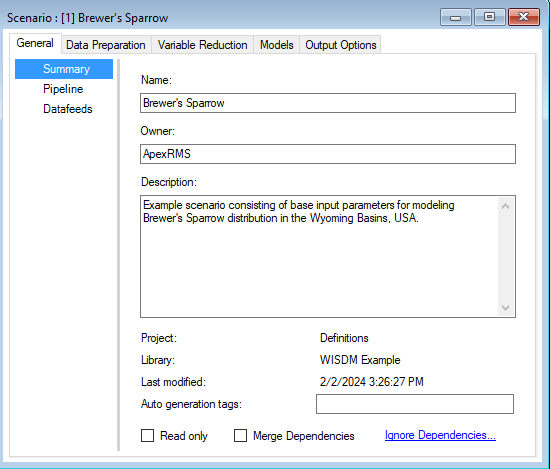
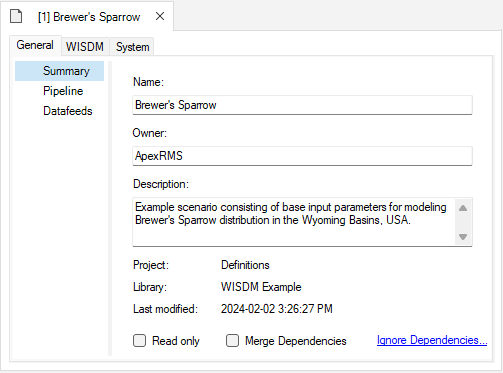
SyncroSim 3 updates

Changed region(s): [[0.0, 0.0, 1.0, 1.0]]

diff --git a/docs/getting_started.md b/docs/getting_started.md
@@ -21,7 +21,7 @@ In the meantime, please note that some instructions, references, and/or images m
 
 <br>
 
-## **WISDM** Quickstart Tutorial
+## **WISDM** Quickstart tutorial
 
 This quickstart tutorial will introduce you to the basics of working with **WISDM**. The steps include:
 
@@ -37,7 +37,7 @@ This quickstart tutorial will introduce you to the basics of working with **WISD
 
 Running **WISDM** requires that the SyncroSim software be installed on your computer. Download the latest version of SyncroSim <a href="https://syncrosim.com/download/" target="_blank">here</a> and follow the installation prompts.
 
-**WISDM** is a [*Base Package*](https://docs.syncrosim.com/how_to_guides/package_overview.html){:target="_blank"} within the SyncroSim simulation modeling framework. To install the **WISDM** *Package*, open SyncroSim and select **File** > **Packages** > **Install**, then select the **WISDM** *Package* and click OK.
+**WISDM** is a [package](https://docs.syncrosim.com/how_to_guides/package_overview.html){:target="_blank"} within the SyncroSim simulation modeling framework. To install the **WISDM** *package*, open SyncroSim Studio and select **File** > **Local Packages** > **Install from Server**, then select the **WISDM** package and click OK.
 
 If you do not have **Miniconda** installed on your computer, a dialog box will open asking if you would like to install Miniconda. Click **Yes**. Once Miniconda is done installing, a dialog box will open asking if you would like to create a new conda environment. Click **Yes**. Note that the process of installing Miniconda and the **WISDM** conda environment can take several minutes. If you choose not to install the conda environment you will need to manually install all required package dependencies.
 
@@ -47,33 +47,33 @@ If you do not have **Miniconda** installed on your computer, a dialog box will o
 
 <p id="step2"> <h2>Step 2: Creating a new <b>WISDM</b> Library</h2> </p>
 
-Having installed the **WISDM** *Package*, you are now ready to create your SyncroSim *Library*. A *Library* is a file (with extension *.ssim*) that contains all your model inputs and outputs. Note that the format of each *Library* is specific to the *Package* for which it was initially created. You can opt to create an empty *Library* or use a template *Library* called **_WISDM Example_**. In this tutorial, we will be working with the **_WISDM Example_** template *Library*. To create a new *Library* from this template, choose **New...** from the **File** menu.
+Having installed the **WISDM** package, you are now ready to create your SyncroSim library. A library is a file (with extension *.ssim*) that contains all your model inputs and outputs. Note that the format of each library is specific to the package for which it was initially created. You can opt to create an empty library or use a template library called **_WISDM Example_**. In this tutorial, we will be working with the **_WISDM Example_** template library. To create a new library from this template, choose **New... > From Online Template... >** from the **File** menu, and selecting **WISDM**.
 
 <img align="middle" style="padding: 3px" width="499" src="assets/images/template.png">
 
 In this window:
 
-* Select the row for **wisdm - Workbench of Integrated Species Distribution Modeling**. Note that as you select a row, the list of *Templates* available and suggested **File name** for that base package are updated.
+* Select the row for **wisdm - Workbench for Integrated Species Distribution Modeling**. Note that as you select a row, the list of *templates* available and suggested **File name** for that base package are updated.
 * Select the **_WISDM Example_** template as shown above. 
-* Optionally type in a new **File name** for the *Library* (or accept the default); you can also change the **Folder** containing the file using the **Browse…** button. <br>
-* When you are ready to create the Library file, click **OK**. A new *Library* will be created and loaded into the **Library Explorer**.
+* Optionally type in a new *File name* for the library (or accept the default); you can also change the *Folder* containing the file using the *Browse…* button. <br>
+* When you are ready to create the library file, click **OK**. A new libraryl will be created and loaded into the SyncroSim Studio **Explorer**.
 
 <br>
 
 <p id="step3"> <h2>Step 3: Viewing model inputs</h2> </p>
 
-The contents of your newly created Library are now displayed in the **Library Explorer**. The *Library* stores information on three levels: the *Library*, the *Project*, and the *Scenarios*. 
+The contents of your newly created library are now displayed in the **Explorer**. The libraryl stores information on three levels: 1.) the library, 2.) the project, and 3.) the scenario(s). 
 
-Most model inputs in SyncroSim are organized into *Scenarios*, where each *Scenario* consists of a suite of *Properties*, one for each of the model’s required inputs. Because you chose the **_WISDM Example_** when you created your *Library*, your Library already contains a demonstration *Scenario* with pre-configured model inputs and outputs. 
+Most model inputs in SyncroSim are organized into scenarios, where each scenarios consists of a suite of properties, one for each of the model’s required inputs. Because you chose the **_WISDM Example_** when you created your library, your library already contains a demonstration scenario with pre-configured model inputs and outputs. 
 
 <img align="middle" style="padding: 3px" width="294" src="assets/images/scenario.png">
 
-To view the details of the *Scenario*:
+To view the details of the scenario:
 
-* Select the scenario named **_Brewer's Sparrow_** in the **Library Explorer**.
-* Right-click and choose **Properties** from the context menu to view the details of the Scenario.
+* Select the scenario named **_Brewer's Sparrow_** in the *Explorer*.
+* Right-click and choose **Open** from the context menu to view the details of the scenario.
 
-This opens the *Scenario Properties* window.
+This opens the scenario properties window.
 
 <img align="middle" style="padding: 3px" width="550" src="assets/images/scenario-properties.png">
 
@@ -81,7 +81,7 @@ This opens the *Scenario Properties* window.
 
 ### Pipeline
 
-Located underneath the **General** tab, the model **Pipeline** allows you to select which stages of the model to include in the model run and their run order. A full run of **WISDM** consists of six to nine stages: (1) Create multiprocessing tiles (optional); (2) Prepare spatial data; (3) Prepare site data; (4) Generate background sites (optional); (5) Prepare training and testing data; (6) Variable reduction; (7) Fit statistical model(s); (8) Apply the model(s); (9) Ensemble the models (optional). The following list represents all possible *Pipeline* elements. In this example, however, we will only run two statistical models in Stage 7:
+Located under the **General** tab, the model **Pipeline** allows you to select which stages of the model to include in the model run and their run order. A full run of **WISDM** consists of six to nine stages: (1) Create multiprocessing tiles (optional); (2) Prepare spatial data; (3) Prepare site data; (4) Generate background sites (optional); (5) Prepare training and testing data; (6) Variable reduction; (7) Fit statistical model(s); (8) Apply the model(s); (9) Ensemble the models (optional). The following list represents all possible *Pipeline* elements. In this example, however, we will only run two statistical models in Stage 7:
 
 * Stage 1: Prepare Multiprocessing (optional)
 * Stage 2: Spatial Data Preparation
@@ -96,41 +96,39 @@ Located underneath the **General** tab, the model **Pipeline** allows you to sel
 * Stage 8: Apply Model
 * Stage 9: Ensemble Model (optional)
 
-Note that all stages in this *Pipeline* are dependent on the results of the previous stage. You cannot run a stage without having first run the previous required stages (optional stages can be skipped). However, you can choose to fit your data to any number of the statistical models available for Stage 7 (i.e., GLM, Random Forest, or Maxent). In this example, GLM and Random Forest have been selected and added to the *Pipeline*.  
+Note that all stages in this pipeline are dependent on the results of the previous stage. You cannot run a stage without having first run the previous required stages (optional stages can be skipped). However, you can choose to fit your data to any number of the statistical models available for Stage 7 (i.e., GLM, Random Forest, or Maxent). In this example, GLM and Random Forest have been selected and added to the pipeline.
 
 <img align="middle" style="padding: 3px" width="470" src="assets/images/pipeline-models.png">
 
 <br>
 
-### Spatial Multiprocessing Inputs
+### Spatial multiprocessing inputs
 
-Under the **Data Preparation** tab, you'll find the **Template Raster** datasheet. Here, you'll provide the system path to a *Raster File* with the desired extent, resolution, and coordinate reference system (CRS) for the analysis and outputs. This **Template Raster** is required for multiple stages in the *Pipeline*, including the optional Prepare Multiprocessing stage. 
+Under the **WISDM > Data Preparation** node, you'll find the **Template Raster** datasheet. Here, you'll provide the system path to a *Raster file* with the desired extent, resolution, and coordinate reference system (CRS) for the analysis and outputs. This **Template Raster** is required for multiple stages in the pipeline, including the optional Prepare Multiprocessing stage. 
 
-If you are choosing to run with Spatial Multiprocessing, you can also specify the *Number of Multiprocessing Tiles* that you would like to use. If you don't specify a value, the package will select an appropriate value for you. 
+If you are choosing to run with Spatial Multiprocessing, you can also specify the *Number of multiprocessing tiles (optional)* that you would like to use. If you don't specify a value, the package will select an appropriate value for you. 
 
-If spatial multiprocessing is used, a tiling raster will be created and will appear in the **Spatial Multiprocessing** datasheet when the **Scenario** has finished running. This tiling raster is used to clip other spatial layers into smaller rectangular blocks, effectively creating more manageable processing sizes.
+If spatial multiprocessing is used, a tiling raster will be created and will appear in the **System > Spatial Multiprocessing** datasheet when the scenario has finished running. This tiling raster is used to clip other spatial layers into smaller rectangular blocks, effectively creating more manageable processing sizes.
 
 <img align="middle" style="padding: 3px" width="579" src="assets/images/template-raster.png">
 
-Note that Stage 1 (Prepare Multiprocessing) only needs to be added to the *Pipeline* and run if spatial multiprocessing is required (i.e., for large landscapes and/or high resolution data). In this example, we will use spatial multiprocessing for demonstration purposes. 
+Note that Stage 1 (Prepare Multiprocessing) only needs to be added to the pipeline and run if spatial multiprocessing is required (i.e., for large landscapes and/or high resolution data). In this example, we will use spatial multiprocessing for demonstration purposes. 
 
 <br>
 
-### Spatial Data Inputs
+### Spatial data inputs
 
-Under the **Project Properties**, which you can view by double-clicking in the **Library Explorer** window, in the *Project* called *Definitions*, you'll find the **Covariates** datasheet. Here, you must list the names of all covariates you want to consider for model development.
+Under the **Project Properties**, which you can view by double-clicking in the *Explorer* window, in the *project* called *Definitions*, you'll find the **WISDM > Covariates** datasheet. Here, you must list the names of all covariates you want to consider for model development.
 
 <img align="middle" style="padding: 3px" width="657" src="assets/images/covariates.png">
 
-If you return to the **Scenario Properties**, under the **Data Preparation** tab, you'll also find a datasheet called **Covariate Data**. Here, you will identify system paths to the raster files (e.g., GEOTiffs) for each covariate listed in the **Covariates** datasheet above. The extent of each raster must be greater than or equal to the template raster extent.
+If you return to the scenario roperties, under the **WISDM > Data Preparation > Spatial Data** node, you'll also find a datasheet called **Covariate Data**. Here, you will identify system paths to the raster files (e.g., GEOTiffs) for each covariate listed in the aforementioned **Covariates** datasheet. The extent of each raster must be greater than or equal to the template raster extent.
 
 <img align="middle" style="padding: 3px" width="582" src="assets/images/covariate-data.png">
 
 Below the **Covariate Data** datasheet, you will see a **Restriction Raster** datasheet. This is an optional input, where you can specify a file path to a raster that will be used to multiply the probability raster during the apply model stage. The **Restriction Raster** is often binary, with the value of 0 indicating areas where occurrence probability will be reduced to zero. In addition to providing a file, you can provide a brief description of the **Restriction Raster** used.
 
-
-
-In the same **Data Preparation** tab, you'll also find a **Field Data** datasheet. Here, you will identify site locations by their X and Y coordinates and include response values for the target species. Response values can be provided as presence-only (1), presence/absence (1 or 0), or counts (integers >= 0).  
+In the same **Data Preparation** tab, you'll also find a **Field Data** datasheet. Here, you will identify site locations by their X and Y coordinates and include response values for the target species. Response values can be provided as presence-only (1), presence/absence (1 or 0), or counts (integers >= 0).
 
 <img align="middle" style="padding: 3px" width="494" src="assets/images/field-data.png">
 
@@ -138,33 +136,31 @@ By default, **WISDM** assumes that the field data coordinates are provided in th
 
 <img align="middle" style="padding: 3px" width="498" src="assets/images/field-data-options.png">
 
-The *Aggregate or Weight Data* input gives you the option to handle redundancy and avoid pseudo-replication by either aggregating field data locations so only one field data observation is represented per pixel or proportionately down-weighting pixels with multiple points. If the input is left blank, all field data points will be retained without aggregation or weighting.
+The *Aggregate or weight data* input gives you the option to handle redundancy and avoid pseudo-replication by either aggregating field data locations so only one field data observation is represented per pixel or proportionately down-weighting pixels with multiple points. If the input is left blank, all field data points will be retained without aggregation or weighting.
 
-If the *Background Data Generation* stage is included in the Scenario *Pipeline*, the **Background Data Options** datasheet will be visible below the **Field Data Options** datasheet. Here, you can identify preferences for background site or pseudo-absence generation, such as whether background sites should be generated, the number of sites that should be generated, the method used for generation, KDE (kernel density estimation) background surface method, and the isopleth threshold used for binary mask creation. This datasheet is optional and is left blank for the purposes of this tutorial.
-
-
+If the *Background Data Generation* stage is included in the scenario pipeline, the **Background Data Options** datasheet will be visible below the **Field Data Options** datasheet. Here, you can identify preferences for background site or pseudo-absence generation, such as whether background sites should be generated, the number of sites that should be generated, the method used for generation, KDE (kernel density estimation) background surface method, and the isopleth threshold used for binary mask creation. This datasheet is optional and is left blank for the purposes of this tutorial.
 
 <br>
 
-### Field Data Inputs
+### Field data inputs
 
-Still under the **Data Preparation** tab, you'll find the **Validation Options** datasheet. Here, you'll indicate if data should be split into training and testing datasets and the proportion of data that should be used for training. If left blank all data is used for training and no data is reserved for testing. In this datasheet, you can also indicate if cross validation (CV) should be used, the number of CV folds the data should be split into (the default is 10), and if the data in the folds should be stratified by the response (i.e., relatively equal representation of the response variables in each fold). If *Use cross validation for model selection* is left blank, cross validation will not run.  
+Still under the **WISDM > Data Preparation** tab, you'll find the **Validation Options** datasheet. Here, you'll indicate if data should be split into training and testing datasets and the proportion of data that should be used for training. If left blank all data is used for training and no data is reserved for testing. In this datasheet, you can also indicate if cross validation (CV) should be used, the number of CV folds the data should be split into (the default is 10), and if the data in the folds should be stratified by the response (i.e., relatively equal representation of the response variables in each fold). If *Use cross validation for model selection* is left blank, cross validation will not run.  
 
 <img align="middle" style="padding: 3px" width="496" src="assets/images/validation-options.png">
 
 <br>
 
-### Statistical Models
+### Statistical models
 
-In the **Models** tab, you'll find the **GLM**, **Random Forest**, and **Maxent** datasheets. Depending on which statistical models you included in your *Pipeline*, you can access the corresponding model configuration datasheet here and customize your desired statistical analysis. If fields are left blank, default values will be used. 
+Under the **WISDM > Models** node, you'll find the **Generalized Linear Model**, **Random Forest**, and **Maodel Outputs** datasheets. Depending on which statistical models you included in your pipeline, you can access the corresponding model configuration datasheet here and customize your desired statistical analysis. If fields are left blank, default values will be used. 
 
 <img align="middle" style="padding: 3px" width="410" src="assets/images/GLM.png">
 
 <br> 
 
-### Output Options
+### Output options
 
-In the **Output Options** datasheet, you can choose which output maps to generate. Five output options are available for selection: (1) Probability Map, (2) Binary Map, (3) Residuals Map, (4) Multivariate Environmental Similarity Surface (MESS) Map, and (5) Most Dissimilar Variable (MoD) Map. Choosing at least one option is required to produce output maps. If this datasheet is left blank, the probability map will be generated by default and all other maps will not be generated. 
+In the **WISDM > Output Options** datasheet, you can choose which output maps to generate. Five output options are available for selection: (1) Probability Map, (2) Binary Map, (3) Residuals Map, (4) Multivariate Environmental Similarity Surface (MESS) Map, and (5) Most Dissimilar Variable (MoD) Map. Choosing at least one option is required to produce output maps. If this datasheet is left blank, the probability map will be generated by default and all other maps will not be generated. 
 
 <img align="middle" style="padding: 3px" width="659" src="assets/images/output-options.png">
 
@@ -172,15 +168,15 @@ In the **Output Options** datasheet, you can choose which output maps to generat
 
 <p id="step4"> <h2>Step 4: Running models</h2> </p>
 
-Right-click on the **_Brewer's Sparrow Scenario_** in the **Scenario Manager** window and select **Run** from the context menu. If prompted to save your project, click **Yes**. 
+Right-click on the **_Brewer's Sparrow Scenario_** select **Run** from the context menu. If prompted to save your project, click **Yes**. 
 
-During the model run, the **Covariate Correlation Viewer** window will open in your default browser, showing correlations between *Covariates*. Here, you can manually remove covariates from consideration based on user interpretation (e.g., if the correlation values are deemed unacceptable). To remove a *Covariate*, uncheck the box next to the variable name in the *Covariates to include* list. A default threshold correlation value of |0.7| (highest of Spearman, Pearson, Kendall) is used to color code the correlation values. This value, and the number of plots shown, can be changed. To view  changes, simply select the *Update* button. Once you are satisfied with your list of covariates, select the *Save & Close* button. The window will close and the analysis will continue in Syncrosim.
+During the model run, the **Covariate Correlation Viewer** window will open in your default browser, showing correlations between *Covariates*. Here, you can manually remove covariates from consideration based on user interpretation (e.g., if the correlation values are deemed unacceptable). To remove a *Covariate*, uncheck the box next to the variable name in the *Covariates to include* list. A default threshold correlation absolute value of 0.7 (highest of Spearman, Pearson, Kendall) is used to color code the correlation values. This value, and the number of plots shown, can be changed. To view  changes, simply select the *Update* button. Once you are satisfied with your list of covariates, select the *Save & Close* button. The window will close and the analysis will continue in Syncrosim.
 
-<img align="middle" style="padding: 3px" width="869" src="assets/images/correlation-viewer.png">
+<img align="middle" style="padding: 3px" width="869" src="assets/images/correlation-viewer.png"> <!--update-->
 
 The example model run should complete within a couple of minutes. If the run is successful, you will see a Status of **Done** in the **Run Monitor** window. If the run fails, you can click on the **Run Log** link to see a report of any problems that occurred.
 
-<img align="middle" style="padding: 3px" width="700" src="assets/images/run-monitor.png">
+<img align="middle" style="padding: 3px" width="700" src="assets/images/run-monitor.png"> <!--update-->
 
 <br>
 
@@ -192,19 +188,19 @@ Once the run is complete, you can view the details of the *Result Scenario*:
 
 <img align="middle" style="padding: 3px" width="292" src="assets/images/result-scenario.png">
 
-* Right-click and choose **Properties** from the context menu to view the details of the *Result Scenario*.
+* Right-click and choose **Properties** from the context menu to view the details of the result scenario.
 
 <img align="middle" style="padding: 3px" width="631" src="assets/images/result-scenario-properties.png">
 
 This opens the *Result Scenario Properties* window. The format of the *Result Scenario Properties* is similar to the *Scenario Properties* but contains read-only datasheets with updated information produced during the model run.
 
-You can look through the *Result Scenario* to see the updated or newly populated datasheets. You should find that the **Field Data**, **Covariate Data**, **GLM**, and **Random Forest** datasheets have updated entries. Note that the model configuration options for **Random Forest** were left empty in the *Parent Scenario*. In this case, **WISDM** uses default settings during model fitting and reports the selections in the *Result Scenario*.
+You can look through the result scenario to see the updated or newly populated datasheets. You should find that the **Field Data**, **Covariate Data**, **GLM**, and **Random Forest** datasheets have updated entries. Note that the model configuration options for **Random Forest** were left empty in the *Parent Scenario*. In this case, **WISDM** uses default settings during model fitting and reports the selections in the result scenario.
 
 <img align="middle" style="padding: 3px" width="442" src="assets/images/random-forest-output.png">
 
 <br>
 
-### Data Preparation Outputs
+### Data preparation outputs
 
 The **Field Data** datasheet has also been updated to only include training data and background (pseudo-absence) sites inside the extent of the *template raster*. In the **Options** datasheet, if weight was selected, the *Weights* column will also be populated. If aggregate was selected, records with -9999 may occur in the *Response* column, this indicates redundancy, and these records will be removed from model fitting. The *Use In Model Evaluation* and *Model Selection Split* columns will also be populated based on selections defined in the **Validation Options** datasheet. The *Use in Model Evaluation* column indicates which sites were used for model training and testing. A **Yes** in this column means that the site was reserved for model evaluation (i.e., testing) and was not used during model fitting (i.e., training). The *Model Selection Split* column indicates how the training data has been spilt for cross validation. This column is only populated if *Use cross validation for model selection* was chosen under **Validation Options**, and will display the cross-validation fold assigned to each site. 
 
@@ -218,7 +214,7 @@ Back in the **Covariate Data** datasheet, you'll find that all your input raster
 
 <br>
 
-In the *Results Scenario* you should also find that the **Spatial Multiprocessing** datasheet under the **Data Preparation** tab has been populated, along with the **Site Data** and **Retained Covariate List** datasheets under the **Variable Reduction** tab.  
+In the results scenario you should also find that the **Spatial Multiprocessing** datasheet under the **Data Preparation** tab has been populated, along with the **Site Data** and **Retained Covariate List** datasheets under the **Variable Reduction** tab. 
 
 Since we opted for multiprocessing, we can see that a tiling raster has been created and added to the **Spatial Multiprocessing** datasheet. This tiling raster is used to clip other spatial layers into smaller rectangular blocks, effectively creating more manageable processing sizes. 
 
@@ -226,9 +222,9 @@ Since we opted for multiprocessing, we can see that a tiling raster has been cre
 
 <br>
 
-### Model Outputs
+### Model outputs
 
-To view spatial outputs, move to the results panel at the bottom left of the **Library Explorer** window. Under the **Maps** tab, double-click on **Map Outputs** to visualize the map.
+To view spatial outputs, move to the results panel at the bottom left of the *Explorer* window. Under the **Maps** tab, double-click on **Map Outputs** to visualize the map.
 
 <img align="middle" style="padding: 3px" width="292" src="assets/images/library-explorer-maps.png">
 
@@ -236,15 +232,11 @@ The first two maps are *Probability* maps showing model-predicted habitat suitab
 
 <img align="middle" style="padding: 3px" width="939" src="assets/images/map-outputs.png">
 
-Under the **Map Outputs** tab, you will also find the **Model Outputs** tab. Outputs include *Response Curves*, *Standard Residuals*, *Residuals Smooth*, *Calibration*, *ROC/AUC*, *AUCPR*, *Confusion Matrix*, and *Variable Importance*. These outputs provide information on model performance and offer quick comparison of different statistical models. 
-
-<img align="middle" style="padding: 3px" width="799" src="assets/images/model-outputs.png">
-
 <br>
 
-## Export Data
+## Export data
 
-To export a map or model output created by the **WISDM** package, add the *Result Scenario* with the desired outputs to the results, then open the **Export** tab at the bottom of the screen. All available files for export will be listed. To export, simply double-click on the desired output and choose the directory in which to save the file in the pop-up window. Note that if multiple *Result Scenarios* are included in the active *Result Scenarios*, files for each of the selected scenarios will be exported. 
+To export a map or model output created by the **WISDM** package, add the result scenario with the desired outputs to the results, then open the **Export** tab at the bottom of the screen. All available files for export will be listed. To export, simply double-click on the desired output and choose the directory in which to save the file in the pop-up window. Note that if multiple result scenarios are included in the active result scenarios, files for each of the selected scenarios will be exported. 
 
 <img align="middle" style="padding: 3px" width="293" src="assets/images/export.png">
 
